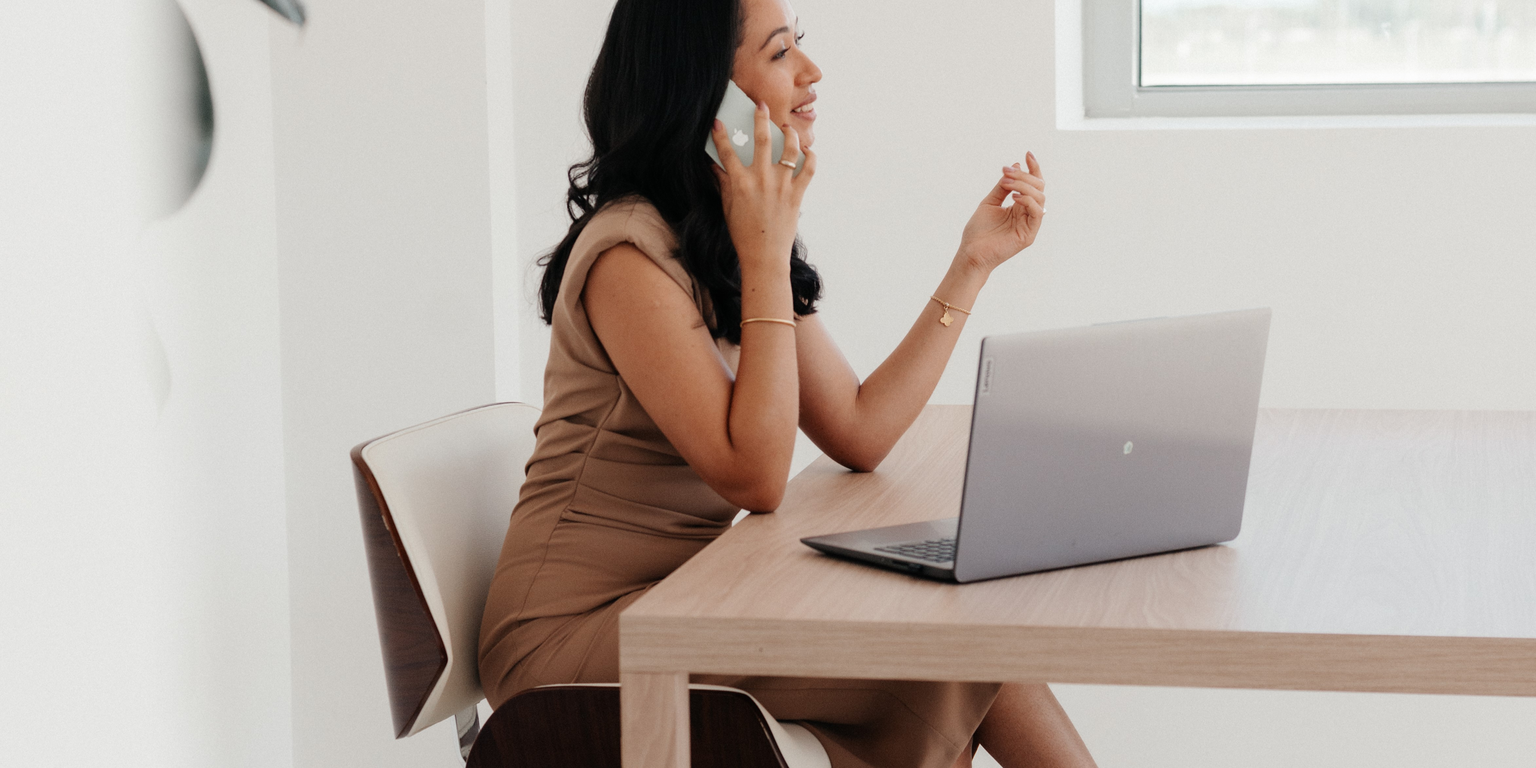
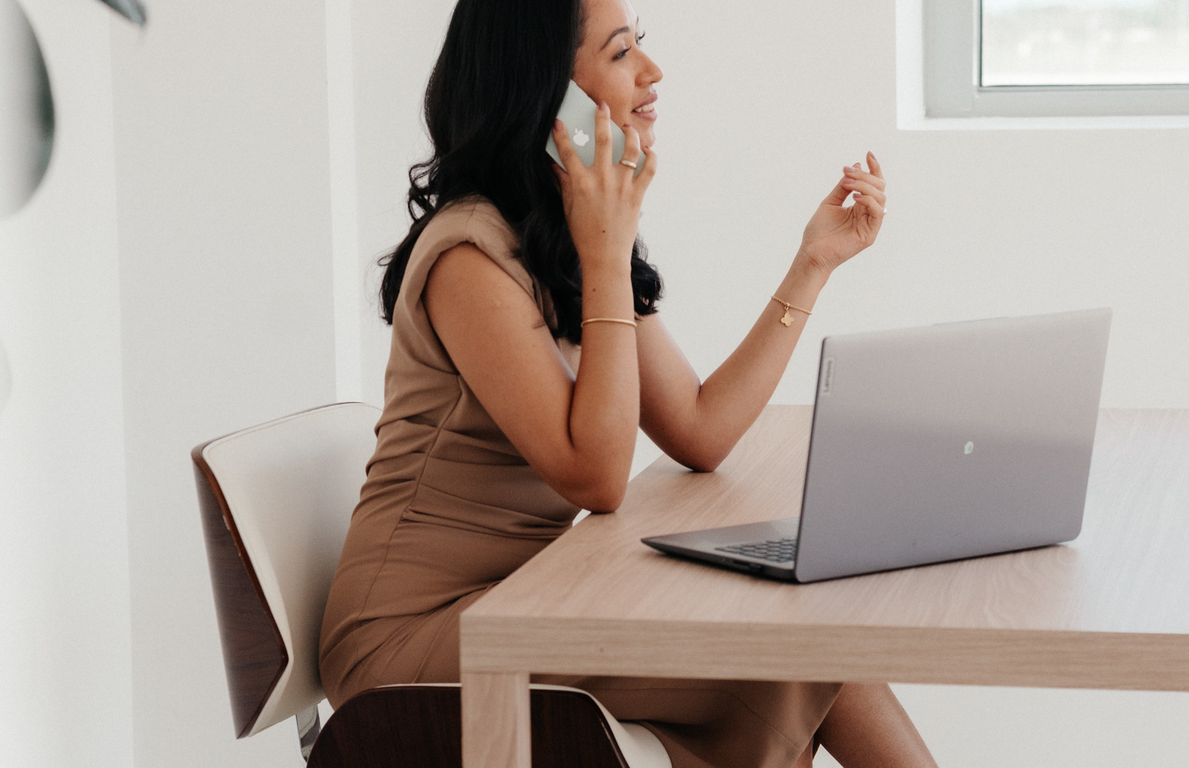
up

diff --git a/style.css b/style.css
@@ -765,6 +765,9 @@ header nav.nav-mobile ul li {
         padding-left: 50px;
     }
 
+    .imgsobrenos img {
+        max-width: 100%;
+    }
     
 }
 
